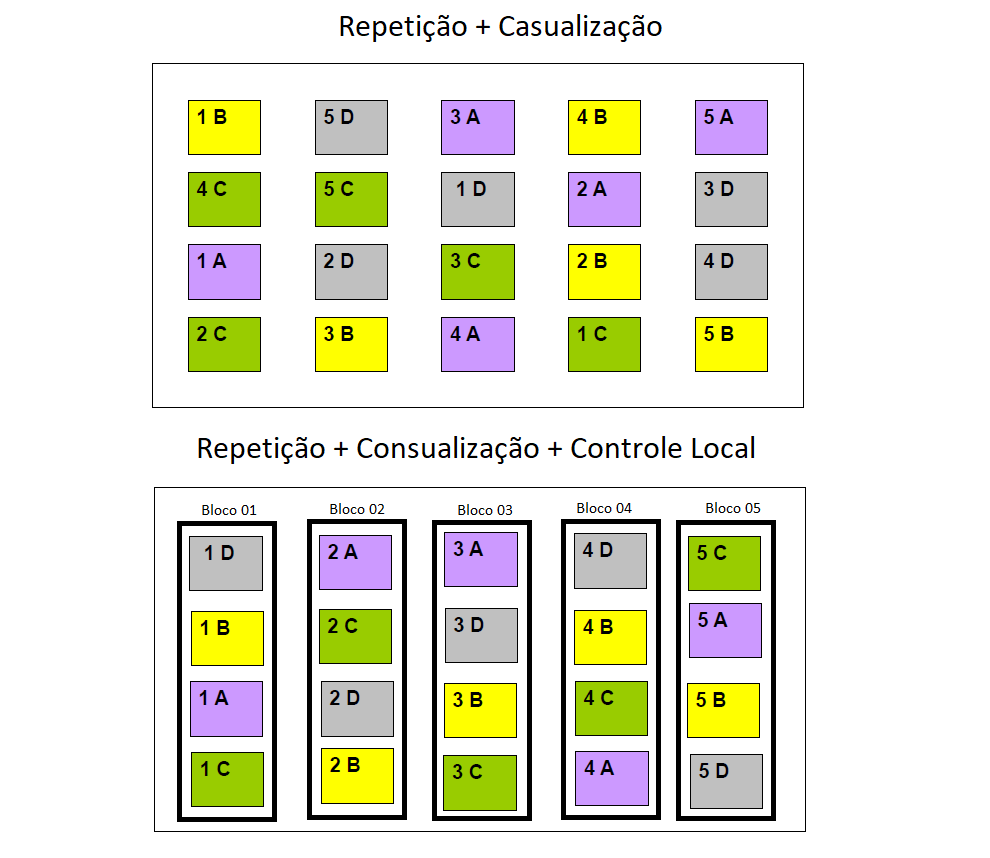
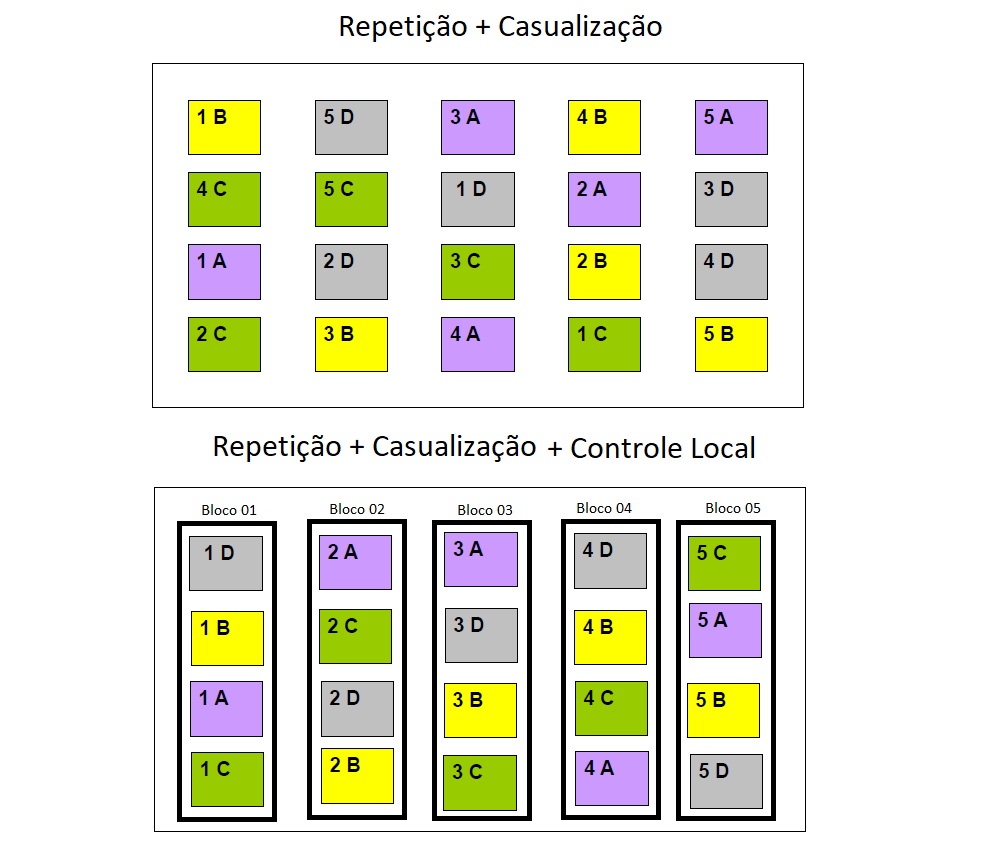
aula 3 final

Changed region(s): [[0.1818, 0.4848, 0.5455, 0.5455]]

diff --git a/img/aula03/slide-cap03.html b/img/aula03/slide-cap03.html
@@ -384,12 +384,12 @@ Entretanto, apenas esse princípio não resolve totalmente o problema, pois se t
 
 Princípio da casualização consiste na distribuição dos tratamentos às parcelas de forma casual, para evitar que um determinado tratamento venha a ser beneficiado por sucessivas repetições em parcelas melhores.
 
-Em outras palavras, é a alocação dos tratamentos aleatoriamente sobreas PARCELAS, isto é, sorteando qualaunidade experimental receberá cada tratamento e cada repetição.
+Em outras palavras, é a alocação dos tratamentos aleatoriamente sobre as PARCELAS, isto é, sorteando qualaunidade experimental receberá cada tratamento e cada repetição.
 
 &gt; **IMPORTÂNCIA**: Leva à obtenção de estimativas imparciais das médias dos tratamentos e a independência do erro experimental.
 
 ---
-
+**ERRADO**
 ![](ex_casu_1.png)
 
 ---
@@ -519,7 +519,7 @@ O esquema de análise de variância de um experimento em blocos ao acaso com `\(
 
 Quando necessitamos controlar `\(2\)` tipos de heterogeneidade, devemos utilizar o **Delineamento em Quadrados Latino (DQL)**. Neste delineamento, os tratamentos sofrem um duplo controle local, sendo dispostos em linhas e colunas.
 
-Para um experimento em quadrado latino com `\(5\)` tratamento, o esquema de análise de variância será:
+Para um experimento em quadrado latino com `\(5\)` tratamentos, o esquema de análise de variância será:
 
 
 &lt;table class="table" style="width: auto !important; margin-left: auto; margin-right: auto;"&gt;
@@ -573,7 +573,7 @@ Em muitos casos formulamos uma hipótese estatística com o objetivo de rejeitá
 
 ---
 
-Por exemplo, quando realizamos um experimento com o objetivo de verificar qual é a variedade de cana-de-açúcar mais produtiva, formulamos a hipótese de que não existem diferenças entre as variedades em relação à produção (isto é, que quaisquer diferenças observadas são devidas unicamente aos fatores não controlado ou acaso). 
+Por exemplo, quando realizamos um experimento com o objetivo de verificar qual é a variedade de cana-de-açúcar mais produtiva, formulamos a hipótese de que não existem diferenças entre as variedades em relação à produção (isto é, que quaisquer diferenças observadas são devidas unicamente aos fatores não controlados ou acaso). 
 
 Essa hipótese inicial que formulamos, é denominada de **hipótese da nulidade** e é representada por `\(H_0\)`.
 
@@ -655,10 +655,10 @@ Assim,
 
 Portanto, 
 
-`$$F_{Trat}=\frac{QM_\text{Tratamentos}}{QM_\text{Resíduos} } = \frac{\sigma^2+K\sigma^2_t}{\sigma^2}$$`
+`$$F_\text{Tratamentos}=\frac{QM_\text{Tratamentos}}{QM_\text{Resíduos} } = \frac{\sigma^2+K\sigma^2_T}{\sigma^2}$$`
 ---
 
-A seguir, comparamos o valor de `\(F\)` calculado com os valores da tabela de distribuição `\(F\)` (geralmente aos níveis de `\(5\;%\)` e `\(1\;%\)` ). Os valores críticos são obtidos na tabela da distribuição `\(F\)`, em função do número de graus de liberdade de tratamentos (ou blocos), na horizontal (numerador) e do número de graus de liberdade do resíduo, na vertical (denominador).
+A seguir, comparamos o valor de `\(F\)` calculado com os valores da tabela de distribuição `\(F\)` (geralmente aos níveis de `\(5\%\)` e `\(1\%\)` ). Os valores críticos são obtidos na tabela da distribuição `\(F\)`, em função do número de graus de liberdade de tratamentos (ou blocos), na horizontal (numerador) e do número de graus de liberdade do resíduo, na vertical (denominador).
 
 ![](f_5p.png)
 
@@ -673,16 +673,11 @@ O critério do teste é o seguinte:
 
 Se `\(F\;observado \ge F\;tabelado\)` o teste **é significativo** ao nível testado. Então, devemos **REJEITAR** a hipótese da nulidade `\((H_0)\)`, e concluir que os efeitos dos tratamentos **diferem entre si** a esse nível de probabilidade, e essas diferenças não devem ser atribuídas ao acaso, mas sim aos efeitos dos tratamentos testatos, com um grau de confiância `\(100 \cdot(1-\alpha)\%\)`.
 
-Se `\(F\;observado \le F\;tabelado\)` o teste **é não significativo** ao nível testado. Então, **NÃO DEVEMOS REJEITAR** a hipótese da nulidade `\((H_0)\)`. Neste caso concluímos que os efeitos dos tratamentos **não diferem entre si** a esse nível de probabilidae. Abaixo segue o esquema da distribuição `\(F\)`.
+Se `\(F\;observado &lt; F\;tabelado\)` o teste **é não significativo** ao nível testado. Então, **NÃO DEVEMOS REJEITAR** a hipótese da nulidade `\((H_0)\)`. Neste caso concluímos que os efeitos dos tratamentos **não diferem entre si** a esse nível de probabilidae. 
+
+Abaixo segue o esquema da distribuição `\(F\)`.
 
 ---
-
-![](slide-cap03_files/figure-html/unnamed-chunk-5-1.png)&lt;!-- --&gt;
-
----
-
-Resumidamente, temos:
-
 a) **Fobs &lt; Ftab(5%)** - O teste `\(F\)` é não significativo ao nível de `\(5\%\)` de probabilidade.
 
 + Aceitamos `\(H_0\)`   
@@ -699,7 +694,8 @@ b) **Ftab(5%) &lt; Fobs &lt; Ftab(1%)** - O teste é significativo ao nível de 
 ![](F-2.png)
 
 ---
-c) **Fobs &gt; Ftab(1%)** - O teste é significativo ao nível de `\(1\%\)`de probabilidade.  
+c) **Fobs &gt; Ftab(1%)** - O teste `\(F\)` é significativo ao nível de `\(1\%\)` de probabilidade (significância).
+
 + Rejeitamos `\(H_0\)` com um grau de confiança superior a `\(99\%\)`. 
 + Utiliza-se a notação: `\(F^{**}\)`.
 
@@ -709,7 +705,9 @@ c) **Fobs &gt; Ftab(1%)** - O teste é significativo ao nível de `\(1\%\)`de pr
 
 ## 4.3 EXEMPLO DE APLICAÇÃO DO TESTE F
 
-Num experimento de competição de cultivares de cana-de-açúcar foram utilizados `\(6\)` Tratamentos e `\(4\)` repetições (blocos). As cultivares testadas foram:
+Num experimento de competição de cultivares de cana-de-açúcar foram utilizados `\(6\)` Tratamentos e `\(4\)` repetições (blocos). 
+
+As cultivares testadas foram:
 
 1) Co 413
 2) Co 419
@@ -722,7 +720,7 @@ O delineamento experimental utilizado foi em blocos casualizados, com os blocos 
 
 ---
 
-Croqui experimental localizada no município de Apareceida do Taboado (MS).
+Croqui da área experimental localizada no município de Apareceida do Taboado (MS).
 
 ![](area_satelite.png)
 
@@ -741,7 +739,7 @@ Fonte: Arquivo pessoal.
 
 ---
 
-Os dados experimentais, em planilha eletrônica da seguinte forma, em planilha eletrônica [dados_prod_cana.xlsx](https://github.com/arpanosso/experimentacao-agricola-unesp-fcav/raw/master/data/dados_prod_cana.xlsx).
+Os dados experimentais, em planilha eletrônica:  [dados_prod_cana.xlsx](https://github.com/arpanosso/experimentacao-agricola-unesp-fcav/raw/master/data/dados_prod_cana.xlsx).
 
 ![](dados_excel.png)
 
